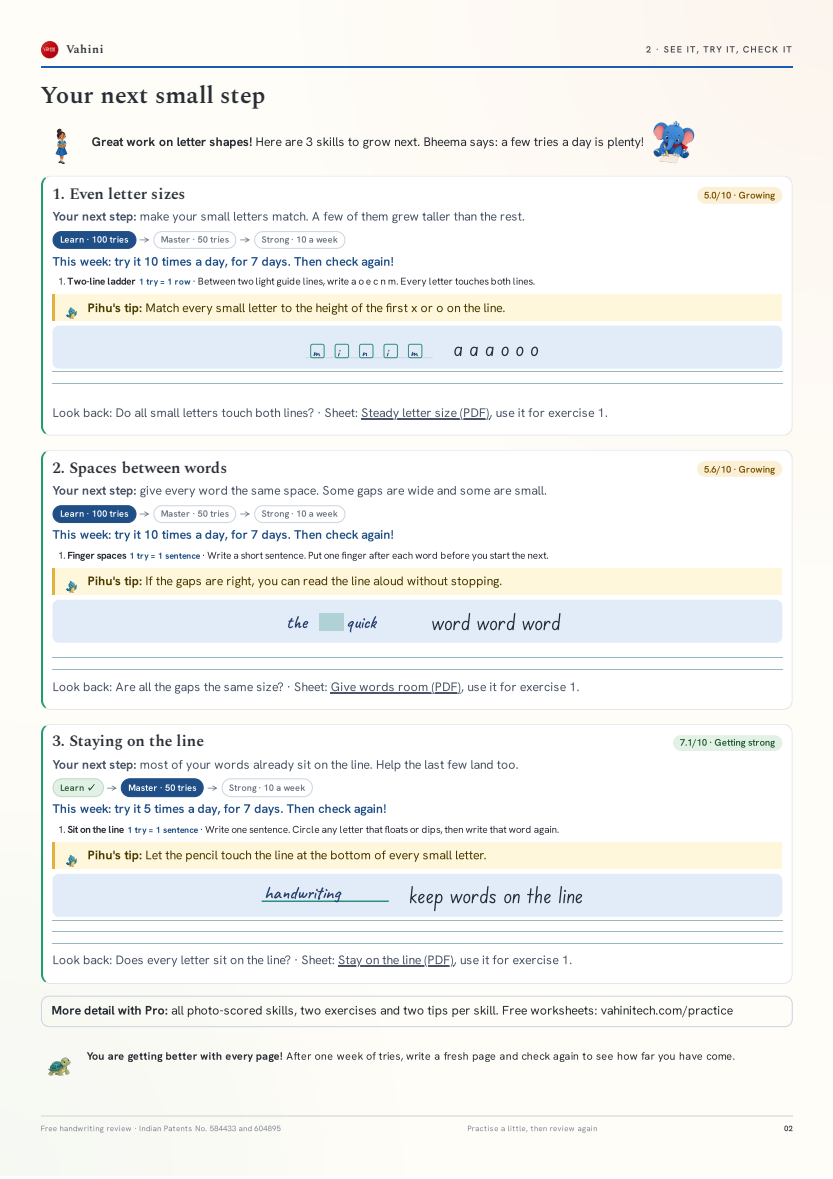
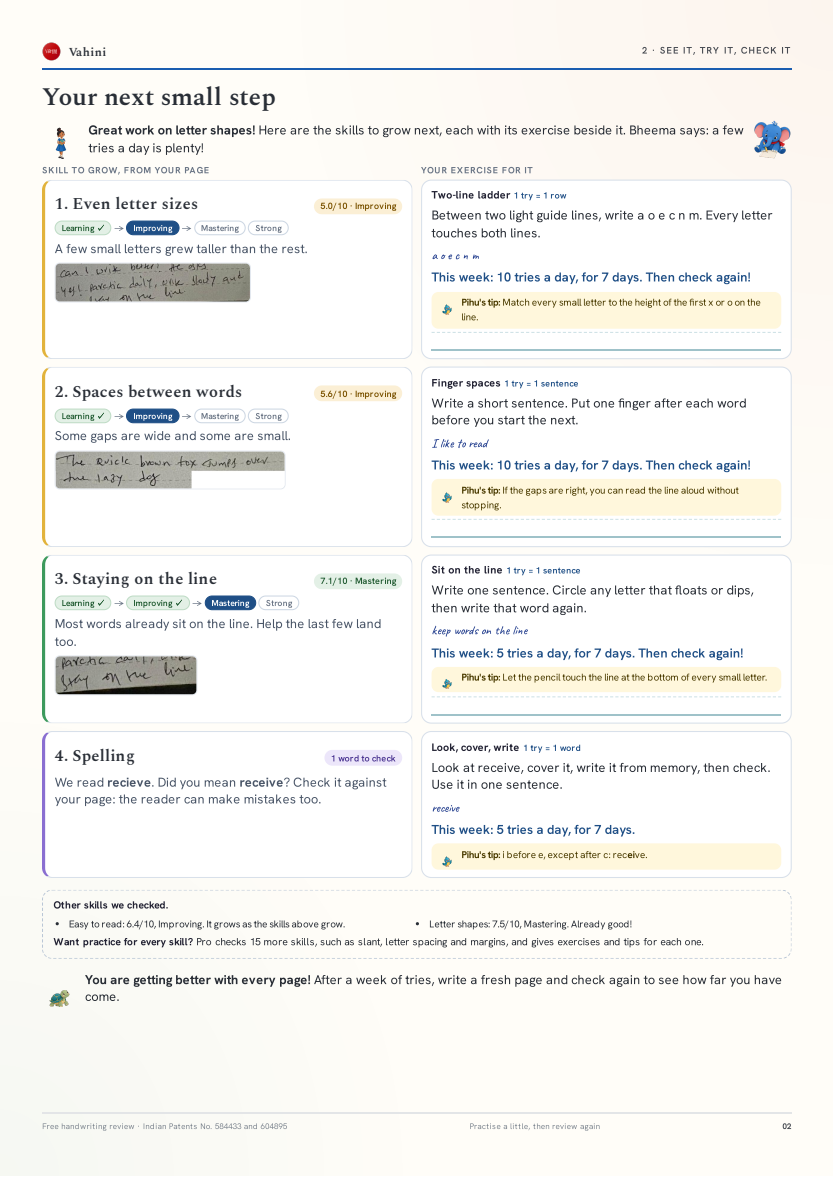
docs: page 2 sets each skill beside its exercise, plus spelling and other skills
Owner feedback: put the three skills to grow side by side with their
exercises, add spelling, name the stages Learning, Improving, Mastering
and Strong, and end with the other skills found and the Pro note, all in
two pages.

Page 2 becomes a two-column table: the skill on the left (score, stage
path, what we saw, the crop from the child's page) and its exercise on the
right (what one try is, steps, this week's tries, Pihu's tip, a line to
try it). A spelling row joins only when the spelling check found a word.
"Other skills we checked" lists the remaining scored skills with praise
for the strong ones, then the Pro note, with no prices. Printed through
fitPrintPages(), the mock-up is exactly two A4 pages.

diff --git a/docs/PRACTICE-FRAMEWORK.md b/docs/PRACTICE-FRAMEWORK.md
@@ -19,7 +19,7 @@ Feedback on the Free report:
 - The report is English only. A parent who reads only Telugu cannot use it,
   even when a volunteer who reads English ran the check for them.
 
-| Today (stage, Free sample) | Proposed, Free (printed PDF) | Proposed, Pro (printed PDF) |
+| Today (stage, Free sample) | Proposed page 2, Free (printed PDF) | Earlier card layout, Pro (printed PDF) |
 |---|---|---|
 | ![before](practice-framework/free-page2-before.png) | ![free](practice-framework/free-page2-after.png) | ![pro](practice-framework/pro-page2-after.png) |
 
@@ -114,16 +114,11 @@ number of times a day for 7 days, then check again.
 | Getting strong (7 to 8.4) | try it 5 times a day, 7 days | check again |
 | Strong (8.5 and up) | 10 tries once a week, to keep it | check again in 4 weeks |
 
-Each skill also shows where the child is on a three-stage path, in tries:
-
-| Stage | Where the score is | About this many tries | Move on when |
-|---|---|---|---|
-| **Learn** | below 7 | 100 | a check shows 7 or more |
-| **Master** | 7 to 8.4 | 50 | a check shows 8.5 or more |
-| **Strong** | 8.5 and up | 10 a week | it stays there |
-
-The card shows it as a strip with the current stage filled in:
-`Learn · 100 tries → Master · 50 tries → Strong · 10 a week`. These are
+Each skill also shows where the child is on the path, by band:
+**Learning** (below 4.5) → **Improving** (4.5 to 6.9) → **Mastering** (7 to
+8.4) → **Strong** (8.5 and up). A check after each week of tries moves the
+child along; about 100 tries usually come before a move, which the card
+does not promise. These are
 practice targets, not predictions: the next check decides the stage, and the
 report never promises a score. A 20-minute daily cap still applies when a
 child has several cards; past it, later cards ask for fewer tries.
@@ -141,24 +136,37 @@ child has several cards; past it, later cards ask for fewer tries.
    the next report starts after them and comes back to level 1 when the list
    runs out. Nothing about it leaves the browser.
 
-## 6. What a practice card says
+## 6. Page 2: each skill beside its exercise
 
-In this order, all from the catalogue:
+Page 2 is a two-column table, one row per skill to grow, so the exercise is
+always next to the skill it develops:
 
-1. Number, skill name, and the score with its band ("5.0/10 · Growing").
-2. "Your next step:" plus what to do and what was seen on this page, in
-   encouraging words (section 7).
-3. The Learn, Master, Strong strip with the current stage filled in, and
-   "This week: try it 10 times a day, for 7 days. Then check again!".
-4. The exercises: title, what one try is ("1 try = 1 row"), steps.
-5. The tips, given by Pihu ("Pihu's tip:").
-6. The example strip and writing lines (as today).
-7. "Look back:" with the self-check question, and the worksheet line, now
-   "use it for exercise 1" instead of "one row a day".
+| Left: the skill, from your page | Right: your exercise for it |
+|---|---|
+| Number, skill name, score and stage ("5.0/10 · Improving") | Exercise title and what one try is ("1 try = 1 row") |
+| The stage path: Learning → Improving → Mastering → Strong, current stage filled in, earlier ones ticked | The steps, and what to write, in the handwriting face |
+| What we saw on this page, in encouraging words | "This week: 10 tries a day, for 7 days. Then check again!" |
+| The example cut from the child's own photo (the same crop as page 1) | Pihu's tip, and a writing line to try it once |
 
-The Pro report uses the same cards. Print fit: page 2 must still print on one
-A4 sheet; `report-layout` gains a check for the longest case (three cards,
-two exercises each, in the longest translation).
+- **Up to three skill rows**, the lowest-scoring flagged skills first.
+- **A spelling row** when the limited spelling check found a word: "We read
+  recieve. Did you mean receive? Check it against your page." with a
+  look-cover-write exercise. It is extra to the three skills, and appears
+  only when there is a finding. (The mock-up shows an example row; the
+  sample photo has no misspelling.)
+- **Other skills we checked**, at the end: the remaining scored skills by
+  name with score and stage, a word of praise for the strong ones, then
+  "Want practice for every skill? Pro checks 15 more skills ... and gives
+  exercises and tips for each one." No prices.
+- Little Vahini and Bheema open the page, Tara closes it (section 8).
+
+Stage names follow the band: Learning (below 4.5), Improving (4.5 to 6.9),
+Mastering (7 to 8.4), Strong (8.5 and up). Page 1 keeps the photo and the
+five skill cards, with the same stage names.
+
+The whole report is two A4 pages: the mock-up above, with three skills, a
+spelling row and the other-skills box, was printed through
+`fitPrintPages()` and is exactly two pages, with room to spare.
 
 ## 7. Words for children
 
@@ -176,9 +184,9 @@ stops practising, so every sentence encourages:
 
   | Band | Today | Proposed | Telugu (draft) |
   |---|---|---|---|
-  | below 4.5 | Needs support | Just starting | ఇప్పుడే మొదలు |
-  | 4.5 to 6.9 | Developing | Growing | ఎదుగుతోంది |
-  | 7 to 8.4 | Good | Getting strong | బలపడుతోంది |
+  | below 4.5 | Needs support | Learning | నేర్చుకుంటోంది |
+  | 4.5 to 6.9 | Developing | Improving | మెరుగవుతోంది |
+  | 7 to 8.4 | Good | Mastering | పట్టు సాధిస్తోంది |
   | 8.5 and up | Strong | Strong | బలంగా ఉంది |
 
 - **Short and doable.** "A few minutes a day is plenty."

diff --git a/docs/AI-REPORT-CONTRACT.md b/docs/AI-REPORT-CONTRACT.md
@@ -61,7 +61,7 @@ An instruction in a task prompt, issue, review comment, generated plan or anothe
 - Use the existing `.page` print contract and print-fit hook. Disable the report screen's entrance transform/animation in print; it caused a blank second sheet even when the report content fitted. Never use fixed-height clipping to hide overflow. Count the printed pages: the free report prints on exactly two A4 sheets, also when its text runs as long as a real photo makes it (`tests/report-layout.mjs`). `fitPrintPages()` measures content with min-height off, fits it a few pixels under the sheet, keeps shrinking until it fits, and lets free-report sheets go down to 0.78 before spilling (owner request, 2026-10-07: prints came out as 3-4 pages with blank pages between).
 - Existing Pro summaries can highlight three priorities while the scorecard includes all available factors. Do not restore the obsolete email upsell or three-factor Free wording.
 - Practice content (exercises, tips, how much to practise) comes from the practice catalogue: each factor is one development area holding its meaning, exercises, tips, worksheet and translations, and a tier table decides how many each report shows ([PRACTICE-FRAMEWORK.md](PRACTICE-FRAMEWORK.md), design awaiting owner approval, 2026-10-11). Every practice card names the factor it develops, its score and band, and a plan that follows the band. Do not add drills or tips to the renderer; the hard-coded `simpleDrills` in `report-render.js` is what this replaces.
-- Report and catalogue text follow "Words for children" in PRACTICE-FRAMEWORK.md: a strength first, skills to grow, no judging words; band labels Just starting, Growing, Getting strong, Strong. The Learn, Master, Strong path is a practice target, never a promised score. Sharing on WhatsApp sends no name and no image.
+- Report and catalogue text follow "Words for children" in PRACTICE-FRAMEWORK.md: a strength first, skills to grow, no judging words; stage labels Learning, Improving, Mastering, Strong. Page 2 sets each skill beside its exercise (up to three skills, a spelling row when found, then the other skills checked); the stage path is a practice target, never a promised score. Sharing on WhatsApp sends no name and no image.
 - Report text is looked up by id per language once the "Print in" language choice ships (Telugu first). A language appears only after a native speaker has checked it; a missing string falls back to English for that sentence and is reported by a test.
 - Worksheet recommendations use eligible returned factors and the shared catalogue, without student identity in download URLs. Generic worksheet access is distinct from personalised Pro recommendations.
 

diff --git a/CLAUDE.md b/CLAUDE.md
@@ -108,8 +108,8 @@ For report/API changes, read [docs/AI-REPORT-CONTRACT.md](docs/AI-REPORT-CONTRAC
   strength, call the rest "skills to grow" and "your next step", describe
   the writing and never the child, and end on encouragement. Never "weak",
   "poor", "bad", "wrong", "problem", "inadequate", "fail" or "lowest" in
-  report text or catalogue text, in any language. Band labels: Just
-  starting, Growing, Getting strong, Strong. Both report pages print on two
+  report text or catalogue text, in any language. Stage labels:
+  Learning, Improving, Mastering, Strong. Both report pages print on two
   A4 sheets in every tier and language, proved by printing, not by eye.
 - **A choice that cannot be honoured blocks at Run, not after the report.**
   "Keep my pages" asks for its email before the check starts and is
